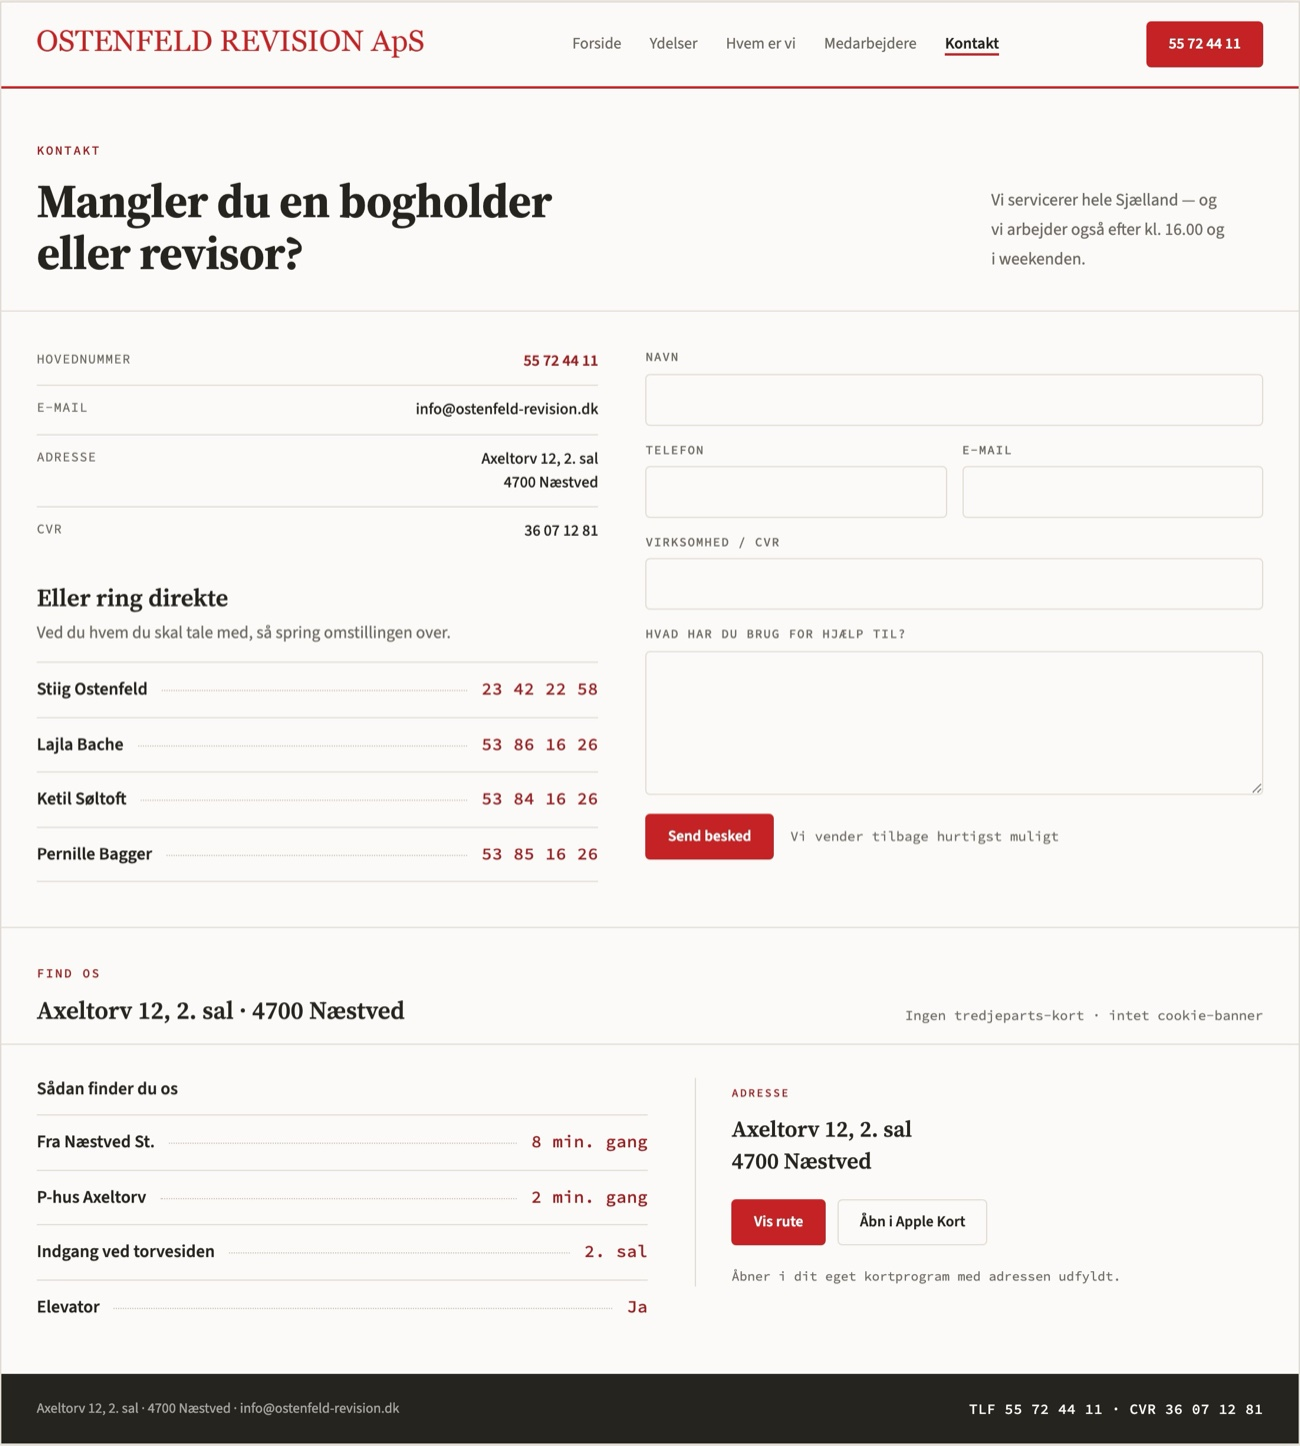
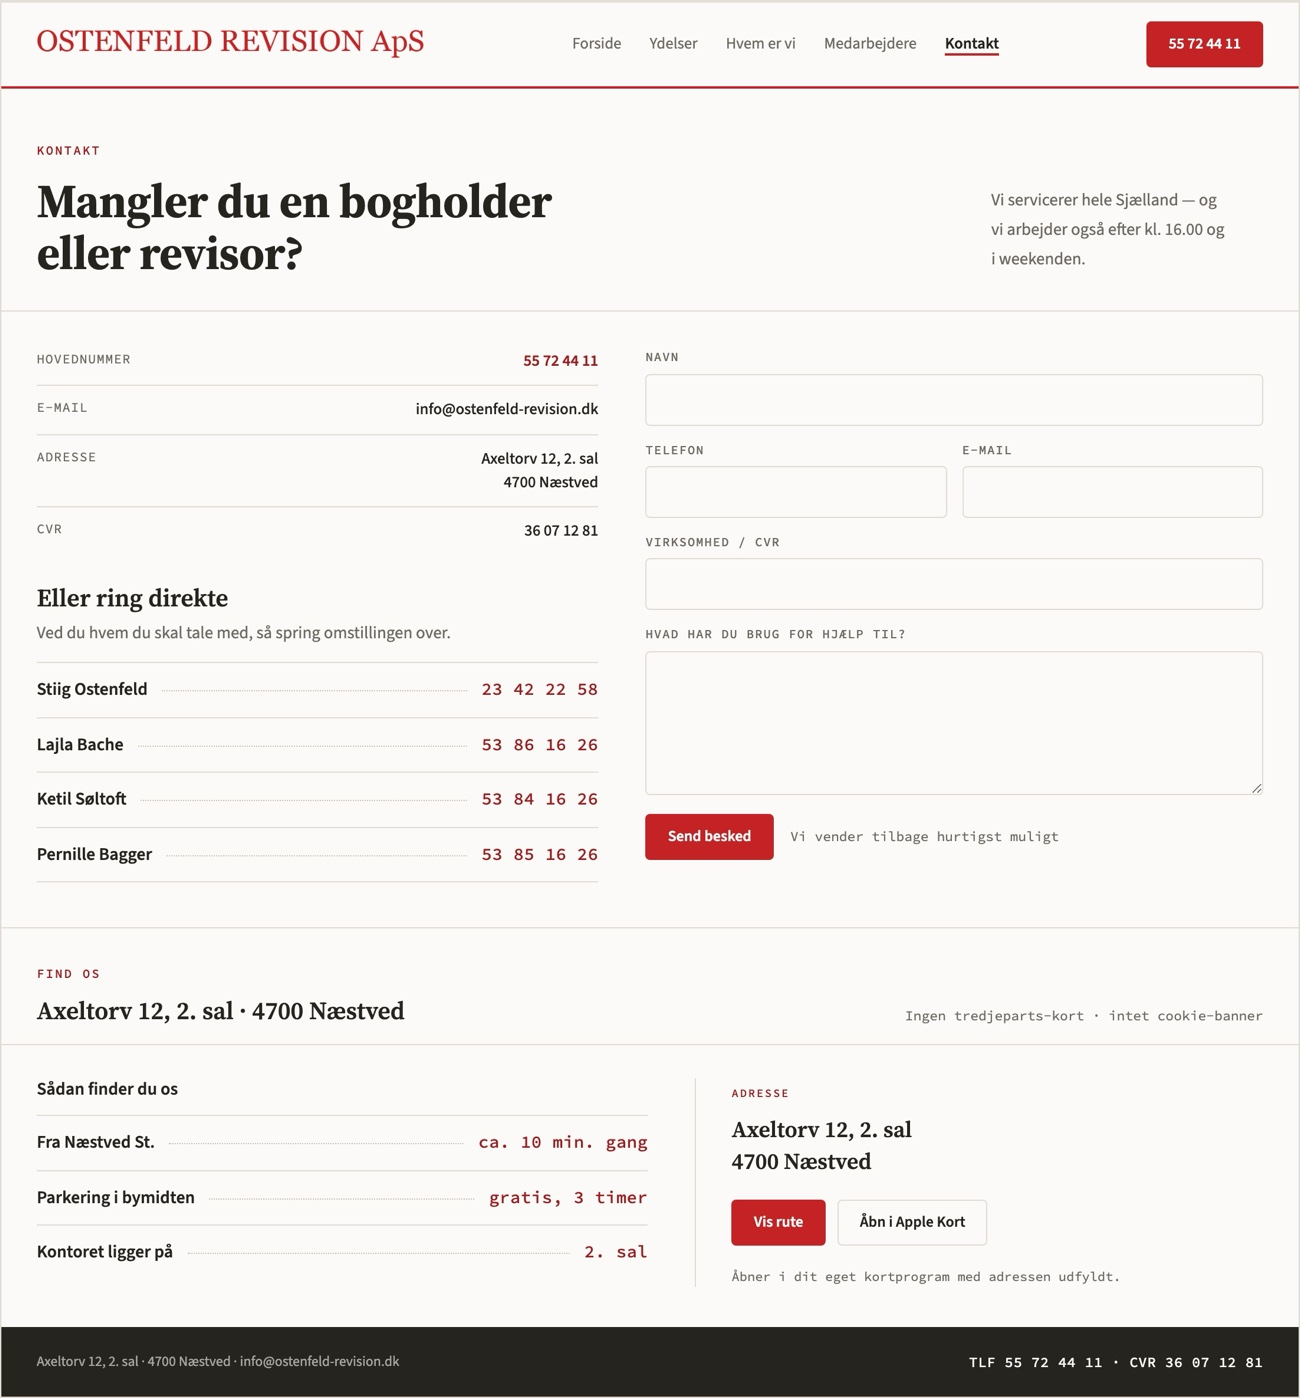
Correct the Kontakt wayfinding facts and tighten the case-page copy
The "Find os" block asserted four things about the building. Two were
wrong: there is no public P-hus at Axeltorv (the 50 spaces under the
square are rented out; the municipal parking houses are Grønvej and
Rampen), and the 1853 property has no elevator — an agent listing for the
same floors describes installing one as a future possibility. The walk
from the station was understated at 8 minutes; the street route is about
900 m. The block now carries only checkable facts: ca. 10 min. walk, free
city-centre parking, and the floor number.

Also: "Én ting" now reads "To ting" since the passage covers two, the
duplicate "prøve, ikke opgaven" heading is replaced, and the menu bullet
names the five items the mock-up actually shows.

diff --git a/p/ostenfeld-revision-b09d2765-0e44-4ae1-b552-84304f464283/index.html b/p/ostenfeld-revision-b09d2765-0e44-4ae1-b552-84304f464283/index.html
@@ -133,11 +133,12 @@ title: "Ostenfeld Revision: sådan kunne jeres nye hjemmeside se ud"
       <div class="copy">
         <div class="eyebrow">Prøve 3 af 3</div>
         <h2>Kontakt</h2>
-        <p>Én ting virker ikke på siden i dag: kontaktformularen ligger ikke på Kontakt-siden. Den ligger bag et tekstlink med teksten „Ønsker du at benytte vores kontaktformular og sende en besked til os, klik her“, så man skal både læse sætningen til ende og vide, at der gemmer sig en side bagved. Det er rettet: formularen står på siden. Og kortet er skiftet ud: det vises først, når besøgende har accepteret cookies fra Google, og det, folk i virkeligheden skal bruge, er adressen og vejen derhen.</p>
+        <p>To ting står i vejen på siden i dag. Kontaktformularen ligger ikke på Kontakt-siden, men bag et tekstlink med teksten „Ønsker du at benytte vores kontaktformular og sende en besked til os, klik her“, så man skal både læse sætningen til ende og vide, at der gemmer sig en side bagved. Og kortet vises først, når besøgende har accepteret cookies fra Google. Begge dele er rettet: formularen står på siden, og kortet er skiftet ud med det, folk i virkeligheden skal bruge, nemlig adressen og vejen derhen.</p>
         <ul class="note-row">
           <li>Formularen spørger om virksomhed og CVR, så I har sagen med det samme</li>
           <li>„Vi servicerer hele Sjælland“ står, hvor man leder efter det</li>
-          <li>I stedet for kortet: gangafstand fra Næstved St. og P-hus Axeltorv, og en „Vis rute“-knap der åbner besøgendes eget kortprogram. Ingen tredjeparts-kort, intet cookie-banner</li>
+          <li>I stedet for kortet: gangafstand fra Næstved St., parkering i bymidten og en „Vis rute“-knap, der åbner besøgendes eget kortprogram. Ingen tredjeparts-kort, intet cookie-banner</li>
+          <li>De to tal er tjekket efter: ca. 10 minutters gang fra stationen, og kommunens egne gratis p-pladser i bymidten. Ved I noget bedre om jeres egen adresse, retter vi det</li>
         </ul>
       </div>
     </div>
@@ -200,12 +201,12 @@ title: "Ostenfeld Revision: sådan kunne jeres nye hjemmeside se ud"
     <div class="case-head">
       <div class="copy">
         <div class="eyebrow">Resten af sitet</div>
-        <h2>De tre sider er en prøve, ikke hele arbejdet.</h2>
-        <p>Jeg har bygget tre sider færdige, så I kan se linjen på noget konkret i stedet for at læse om den. Siger I ja, får resten af sitet den samme behandling: Ydelser, Priser, Fagligt og de øvrige, med jeres eget indhold, som det står i dag.</p>
+        <h2>Ydelser, Priser og de øvrige følger efter.</h2>
+        <p>Jeg har bygget tre sider færdige, så I kan se linjen på noget konkret i stedet for at læse om den. Resten af sitet får den samme behandling, med jeres eget indhold, som det står i dag.</p>
         <ul class="note-row">
           <li>Samme system hele vejen: samme typografi, samme farver, samme opbygning</li>
-          <li>Menuen strammes fra ni punkter til de fire-fem, folk faktisk leder efter. Cookiepolitik hører hjemme i bunden, ikke i topmenuen</li>
-          <li>Priser-siden siger i dag ingen priser. Den ene ærlige sætning derinde, „fast pris aftalt på forhånd“, er den, der skal stå øverst</li>
+          <li>Menuen strammes fra ni punkter til de fem, folk faktisk leder efter: Forside, Ydelser, Hvem er vi, Medarbejdere og Kontakt. Links og Cookiepolitik hører hjemme i bunden, ikke i topmenuen</li>
+          <li>Priser-siden siger i dag ingen priser. Den ene ærlige sætning derinde, „fast pris aftalt på forhånd“, flytter med op på Ydelser, hvor folk spørger om den</li>
         </ul>
       </div>
     </div>
